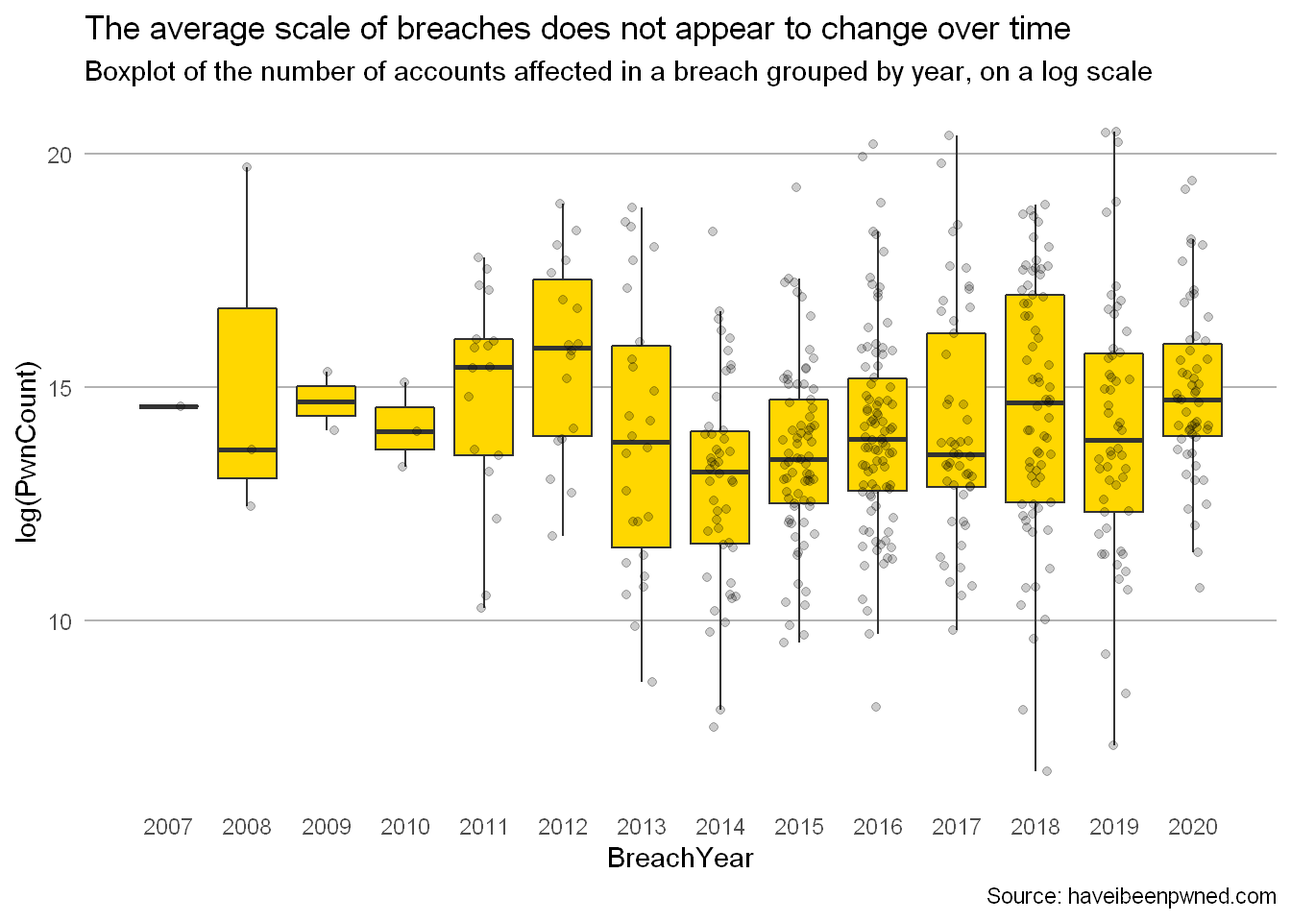
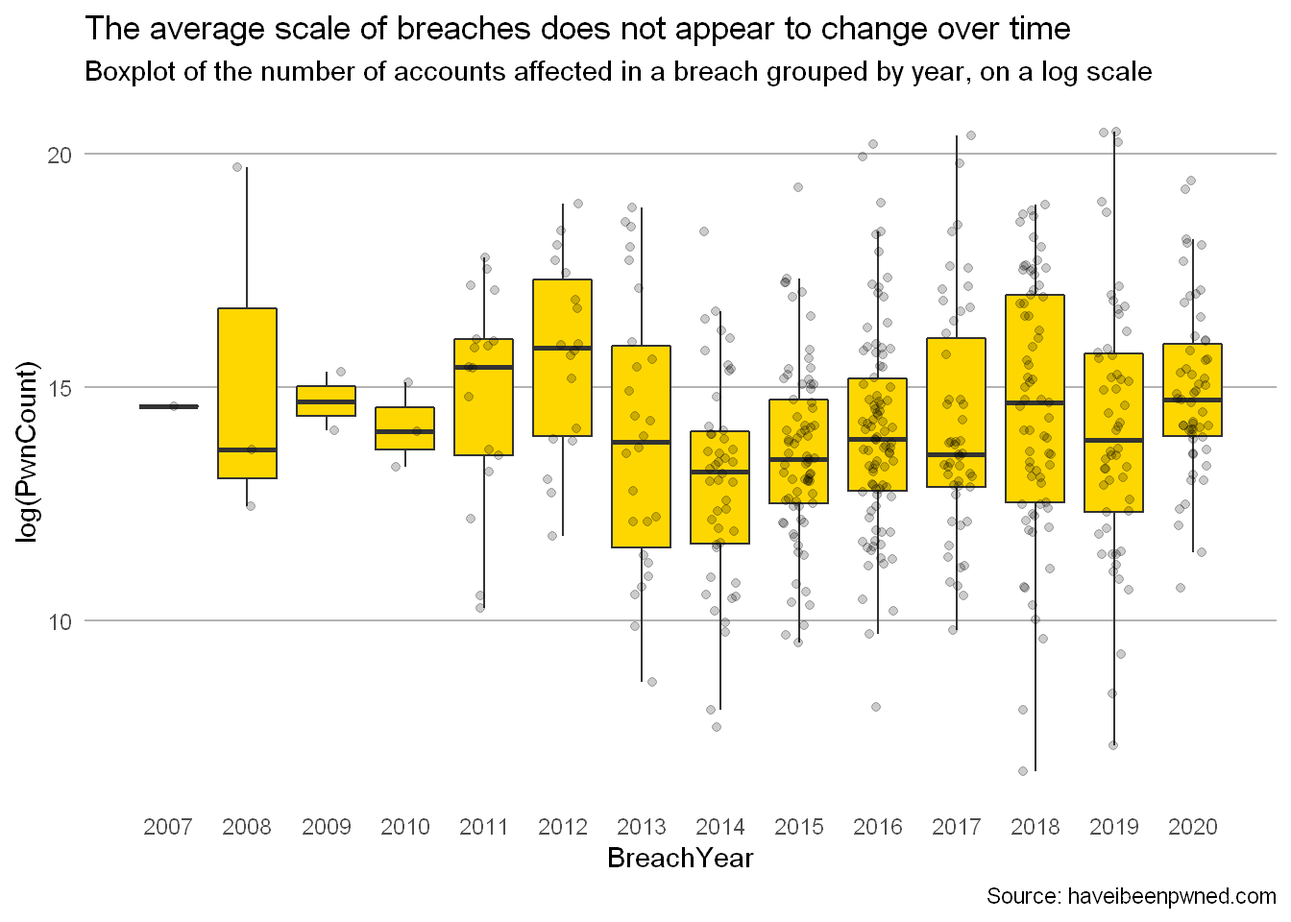
minor update

diff --git a/content/post/2020-12-16-have-you-been-pwned/index.html b/content/post/2020-12-16-have-you-been-pwned/index.html
@@ -2,11 +2,8 @@
 title: Have you been Pwned?
 author: ''
 date: '2020-12-16'
-slug: []
-categories: []
-tags: []
-description: ''
-topics: []
+tags:
+  - data exploration
 ---
 
 <script src="index_files/header-attrs/header-attrs.js"></script>
@@ -28,6 +25,7 @@ topics: []
 <p align="center">
 <img src="/images/cybersec.jpeg" width="800" height="500">
 </p>
+<p><em><strong>UPDATE</strong>: This post was originally made on 16th Dec 2020. Minor changes from the data may have occurred since then which may result in slight discrepancies between the written text and any tables, graphs or data shown here</em></p>
 <p>To “pwn” someone means that you have effectively overpowered or dominated that individual. It used to be most commonly used when someone was beaten in a video game, but now it refers to when a nefarious cyber-attack has occurred and someone has had their personal information stolen.</p>
 <p>Recently, there was <a href="https://www.bbc.co.uk/news/technology-55363828">news</a> of a <a href="https://en.wikipedia.org/wiki/2020_United_States_federal_government_data_breach">major cyber-attack</a> on several US federal government agencies. Known as the ‘Sunburst Breach’, it attacked various organisations by going through a supply chain, which in this case was a network management and monitoring tool from the company Solarwinds which has over 300,000 public and private customers. The attackers were able to gain access to private emails and other sensitive documents. This affected over 18,000 customers, some of which include:</p>
 <ul>
@@ -67,7 +65,8 @@ data_breaches &lt;- httr::content(raw_result, as = &quot;text&quot;) %&gt;%
 
 data_breach &lt;-  data_breaches %&gt;% 
   select(-LogoPath,-Description) %&gt;%
-  mutate(across(ends_with(&quot;Date&quot;), as.Date))</code></pre>
+  mutate(across(ends_with(&quot;Date&quot;), as.Date)) %&gt;% 
+  filter( lubridate::year(BreachDate) &lt; 2021  ) # ADDED FOR UPDATE</code></pre>
 <p>We have 495 data breaches in this dataset, with 14 attributes. The attributes of most interest to us are:</p>
 <ul>
 <li><p><strong><code>name</code></strong> and <strong><code>title</code></strong> - refers to the source of the data breach.</p></li>
@@ -131,7 +130,7 @@ FALSE
 FALSE
 </td>
 <td style="text-align:right;">
-430
+431
 </td>
 </tr>
 <tr>
@@ -522,7 +521,7 @@ FALSE
   rmarkdown::paged_table()</code></pre>
 <div data-pagedtable="false">
 <script data-pagedtable-source type="application/json">
-{"columns":[{"label":["DataClasses"],"name":[1],"type":["chr"],"align":["left"]},{"label":["Number of breaches"],"name":[2],"type":["int"],"align":["right"]}],"data":[{"1":"Email addresses","2":"499"},{"1":"Passwords","2":"417"},{"1":"Usernames","2":"290"},{"1":"IP addresses","2":"226"},{"1":"Names","2":"214"},{"1":"Dates of birth","2":"128"},{"1":"Phone numbers","2":"119"},{"1":"Physical addresses","2":"97"},{"1":"Genders","2":"87"},{"1":"Website activity","2":"76"},{"1":"Geographic locations","2":"68"},{"1":"Social media profiles","2":"25"},{"1":"Private messages","2":"24"},{"1":"Employers","2":"20"},{"1":"Job titles","2":"19"},{"1":"Purchases","2":"15"},{"1":"Spoken languages","2":"14"},{"1":"Device information","2":"11"},{"1":"Partial credit card data","2":"11"},{"1":"Security questions and answers","2":"11"},{"1":"Browser user agent details","2":"9"},{"1":"Marital statuses","2":"9"},{"1":"Email messages","2":"8"},{"1":"Government issued IDs","2":"8"},{"1":"Income levels","2":"8"},{"1":"Instant messenger identities","2":"8"},{"1":"Account balances","2":"7"},{"1":"Ethnicities","2":"7"},{"1":"Payment histories","2":"7"},{"1":"Physical attributes","2":"7"},{"1":"Auth tokens","2":"6"},{"1":"Avatars","2":"6"},{"1":"Family structure","2":"6"},{"1":"Sexual orientations","2":"6"},{"1":"Bios","2":"5"},{"1":"Credit cards","2":"5"},{"1":"Education levels","2":"5"},{"1":"Historical passwords","2":"5"},{"1":"Home ownership statuses","2":"5"},{"1":"Religions","2":"5"},{"1":"Salutations","2":"5"},{"1":"Social connections","2":"5"},{"1":"Time zones","2":"5"},{"1":"User website URLs","2":"5"},{"1":"Credit status information","2":"4"},{"1":"Drinking habits","2":"4"},{"1":"Passport numbers","2":"4"},{"1":"Family members' names","2":"3"},{"1":"Occupations","2":"3"},{"1":"Partial dates of birth","2":"3"},{"1":"Personal descriptions","2":"3"},{"1":"Profile photos","2":"3"},{"1":"Relationship statuses","2":"3"},{"1":"Smoking habits","2":"3"},{"1":"Age groups","2":"2"},{"1":"Ages","2":"2"},{"1":"Bank account numbers","2":"2"},{"1":"Chat logs","2":"2"},{"1":"Drug habits","2":"2"},{"1":"Financial investments","2":"2"},{"1":"Financial transactions","2":"2"},{"1":"Homepage URLs","2":"2"},{"1":"IMEI numbers","2":"2"},{"1":"Nationalities","2":"2"},{"1":"Net worths","2":"2"},{"1":"Nicknames","2":"2"},{"1":"Personal interests","2":"2"},{"1":"PINs","2":"2"},{"1":"Political views","2":"2"},{"1":"Sexual fetishes","2":"2"},{"1":"SMS messages","2":"2"},{"1":"Social security numbers","2":"2"},{"1":"Address book contacts","2":"1"},{"1":"Apps installed on devices","2":"1"},{"1":"Astrological signs","2":"1"},{"1":"Audio recordings","2":"1"},{"1":"Beauty ratings","2":"1"},{"1":"Biometric data","2":"1"},{"1":"Browsing histories","2":"1"},{"1":"Buying preferences","2":"1"},{"1":"Car ownership statuses","2":"1"},{"1":"Career levels","2":"1"},{"1":"Cellular network names","2":"1"},{"1":"Charitable donations","2":"1"},{"1":"Credit card CVV","2":"1"},{"1":"Customer feedback","2":"1"},{"1":"Customer interactions","2":"1"},{"1":"Deceased date","2":"1"},{"1":"Deceased statuses","2":"1"},{"1":"Device usage tracking data","2":"1"},{"1":"Eating habits","2":"1"},{"1":"Employment statuses","2":"1"},{"1":"Encrypted keys","2":"1"},{"1":"Fitness levels","2":"1"},{"1":"Health insurance information","2":"1"},{"1":"Home loan information","2":"1"},{"1":"IMSI numbers","2":"1"},{"1":"Job applications","2":"1"},{"1":"Living costs","2":"1"},{"1":"MAC addresses","2":"1"},{"1":"Mnemonic phrases","2":"1"},{"1":"Mothers maiden names","2":"1"},{"1":"Parenting plans","2":"1"},{"1":"Password hints","2":"1"},{"1":"Password strengths","2":"1"},{"1":"Payment methods","2":"1"},{"1":"Personal health data","2":"1"},{"1":"Photos","2":"1"},{"1":"Places of birth","2":"1"},{"1":"Political donations","2":"1"},{"1":"Professional skills","2":"1"},{"1":"Purchasing habits","2":"1"},{"1":"Races","2":"1"},{"1":"Recovery email addresses","2":"1"},{"1":"Reward program balances","2":"1"},{"1":"School grades (class levels)","2":"1"},{"1":"Spouses names","2":"1"},{"1":"Support tickets","2":"1"},{"1":"Survey results","2":"1"},{"1":"Taxation records","2":"1"},{"1":"Travel habits","2":"1"},{"1":"User statuses","2":"1"},{"1":"Utility bills","2":"1"},{"1":"Vehicle details","2":"1"},{"1":"Work habits","2":"1"},{"1":"Years of professional experience","2":"1"}],"options":{"columns":{"min":{},"max":[10]},"rows":{"min":[10],"max":[10]},"pages":{}}}
+{"columns":[{"label":["DataClasses"],"name":[1],"type":["chr"],"align":["left"]},{"label":["Number of breaches"],"name":[2],"type":["int"],"align":["right"]}],"data":[{"1":"Email addresses","2":"500"},{"1":"Passwords","2":"418"},{"1":"Usernames","2":"290"},{"1":"IP addresses","2":"226"},{"1":"Names","2":"215"},{"1":"Dates of birth","2":"128"},{"1":"Phone numbers","2":"119"},{"1":"Physical addresses","2":"97"},{"1":"Genders","2":"87"},{"1":"Website activity","2":"76"},{"1":"Geographic locations","2":"68"},{"1":"Social media profiles","2":"26"},{"1":"Private messages","2":"24"},{"1":"Employers","2":"20"},{"1":"Job titles","2":"19"},{"1":"Purchases","2":"15"},{"1":"Spoken languages","2":"14"},{"1":"Device information","2":"11"},{"1":"Partial credit card data","2":"11"},{"1":"Security questions and answers","2":"11"},{"1":"Browser user agent details","2":"9"},{"1":"Marital statuses","2":"9"},{"1":"Email messages","2":"8"},{"1":"Government issued IDs","2":"8"},{"1":"Income levels","2":"8"},{"1":"Instant messenger identities","2":"8"},{"1":"Account balances","2":"7"},{"1":"Ethnicities","2":"7"},{"1":"Payment histories","2":"7"},{"1":"Physical attributes","2":"7"},{"1":"Auth tokens","2":"6"},{"1":"Avatars","2":"6"},{"1":"Family structure","2":"6"},{"1":"Sexual orientations","2":"6"},{"1":"Bios","2":"5"},{"1":"Credit cards","2":"5"},{"1":"Education levels","2":"5"},{"1":"Historical passwords","2":"5"},{"1":"Home ownership statuses","2":"5"},{"1":"Religions","2":"5"},{"1":"Salutations","2":"5"},{"1":"Social connections","2":"5"},{"1":"Time zones","2":"5"},{"1":"User website URLs","2":"5"},{"1":"Credit status information","2":"4"},{"1":"Drinking habits","2":"4"},{"1":"Passport numbers","2":"4"},{"1":"Family members' names","2":"3"},{"1":"Occupations","2":"3"},{"1":"Partial dates of birth","2":"3"},{"1":"Personal descriptions","2":"3"},{"1":"Profile photos","2":"3"},{"1":"Relationship statuses","2":"3"},{"1":"Smoking habits","2":"3"},{"1":"Age groups","2":"2"},{"1":"Ages","2":"2"},{"1":"Bank account numbers","2":"2"},{"1":"Chat logs","2":"2"},{"1":"Drug habits","2":"2"},{"1":"Financial investments","2":"2"},{"1":"Financial transactions","2":"2"},{"1":"Homepage URLs","2":"2"},{"1":"IMEI numbers","2":"2"},{"1":"Nationalities","2":"2"},{"1":"Net worths","2":"2"},{"1":"Nicknames","2":"2"},{"1":"Personal interests","2":"2"},{"1":"PINs","2":"2"},{"1":"Political views","2":"2"},{"1":"Sexual fetishes","2":"2"},{"1":"SMS messages","2":"2"},{"1":"Social security numbers","2":"2"},{"1":"Address book contacts","2":"1"},{"1":"Apps installed on devices","2":"1"},{"1":"Astrological signs","2":"1"},{"1":"Audio recordings","2":"1"},{"1":"Beauty ratings","2":"1"},{"1":"Biometric data","2":"1"},{"1":"Browsing histories","2":"1"},{"1":"Buying preferences","2":"1"},{"1":"Car ownership statuses","2":"1"},{"1":"Career levels","2":"1"},{"1":"Cellular network names","2":"1"},{"1":"Charitable donations","2":"1"},{"1":"Credit card CVV","2":"1"},{"1":"Customer feedback","2":"1"},{"1":"Customer interactions","2":"1"},{"1":"Deceased date","2":"1"},{"1":"Deceased statuses","2":"1"},{"1":"Device usage tracking data","2":"1"},{"1":"Eating habits","2":"1"},{"1":"Employment statuses","2":"1"},{"1":"Encrypted keys","2":"1"},{"1":"Fitness levels","2":"1"},{"1":"Health insurance information","2":"1"},{"1":"Home loan information","2":"1"},{"1":"IMSI numbers","2":"1"},{"1":"Job applications","2":"1"},{"1":"Living costs","2":"1"},{"1":"MAC addresses","2":"1"},{"1":"Mnemonic phrases","2":"1"},{"1":"Mothers maiden names","2":"1"},{"1":"Parenting plans","2":"1"},{"1":"Password hints","2":"1"},{"1":"Password strengths","2":"1"},{"1":"Payment methods","2":"1"},{"1":"Personal health data","2":"1"},{"1":"Photos","2":"1"},{"1":"Places of birth","2":"1"},{"1":"Political donations","2":"1"},{"1":"Professional skills","2":"1"},{"1":"Purchasing habits","2":"1"},{"1":"Races","2":"1"},{"1":"Recovery email addresses","2":"1"},{"1":"Reward program balances","2":"1"},{"1":"School grades (class levels)","2":"1"},{"1":"Spouses names","2":"1"},{"1":"Support tickets","2":"1"},{"1":"Survey results","2":"1"},{"1":"Taxation records","2":"1"},{"1":"Travel habits","2":"1"},{"1":"User statuses","2":"1"},{"1":"Utility bills","2":"1"},{"1":"Vehicle details","2":"1"},{"1":"Work habits","2":"1"},{"1":"Years of professional experience","2":"1"}],"options":{"columns":{"min":{},"max":[10]},"rows":{"min":[10],"max":[10]},"pages":{}}}
   </script>
 </div>
 <p>Showing the results in a graph,</p>
@@ -559,7 +558,7 @@ data_breach %&gt;%
 # wordcloud2(color=sample( c(&quot;#00FF41&quot;,&quot;#7FE706&quot;,&quot;#48A70B&quot;,&quot;#A4FF00&quot;,&quot;#66FF01&quot;,&quot;#2CE71E&quot;,&quot;#0AAF30&quot;),126,replace=TRUE), backgroundColor =&quot;black&quot;,rotateRatio=0,size=0.5,fontFamily=&quot;Rockwell&quot;)
    wordcloud2(color=&#39;random-light&#39;, backgroundColor = &quot;black&quot;,rotateRatio=0,size=0.5,fontFamily=&quot;Rockwell&quot;)</code></pre>
 <div id="htmlwidget-1" style="width:960px;height:480px;" class="wordcloud2 html-widget"></div>
-<script type="application/json" data-for="htmlwidget-1">{"x":{"word":["Email addresses","Passwords","Usernames","IP addresses","Names","Dates of birth","Phone numbers","Physical addresses","Genders","Website activity","Geographic locations","Social media profiles","Private messages","Employers","Job titles","Purchases","Spoken languages","Device information","Partial credit card data","Security questions and answers","Browser user agent details","Marital statuses","Email messages","Government issued IDs","Income levels","Instant messenger identities","Account balances","Ethnicities","Payment histories","Physical attributes","Auth tokens","Avatars","Family structure","Sexual orientations","Bios","Credit cards","Education levels","Historical passwords","Home ownership statuses","Religions","Salutations","Social connections","Time zones","User website URLs","Credit status information","Drinking habits","Passport numbers","Family members' names","Occupations","Partial dates of birth","Personal descriptions","Profile photos","Relationship statuses","Smoking habits","Age groups","Ages","Bank account numbers","Chat logs","Drug habits","Financial investments","Financial transactions","Homepage URLs","IMEI numbers","Nationalities","Net worths","Nicknames","Personal interests","PINs","Political views","Sexual fetishes","SMS messages","Social security numbers","Address book contacts","Apps installed on devices","Astrological signs","Audio recordings","Beauty ratings","Biometric data","Browsing histories","Buying preferences","Car ownership statuses","Career levels","Cellular network names","Charitable donations","Credit card CVV","Customer feedback","Customer interactions","Deceased date","Deceased statuses","Device usage tracking data","Eating habits","Employment statuses","Encrypted keys","Fitness levels","Health insurance information","Home loan information","IMSI numbers","Job applications","Living costs","MAC addresses","Mnemonic phrases","Mothers maiden names","Parenting plans","Password hints","Password strengths","Payment methods","Personal health data","Photos","Places of birth","Political donations","Professional skills","Purchasing habits","Races","Recovery email addresses","Reward program balances","School grades (class levels)","Spouses names","Support tickets","Survey results","Taxation records","Travel habits","User statuses","Utility bills","Vehicle details","Work habits","Years of professional experience"],"freq":[499,417,290,226,214,128,119,97,87,76,68,25,24,20,19,15,14,11,11,11,9,9,8,8,8,8,7,7,7,7,6,6,6,6,5,5,5,5,5,5,5,5,5,5,4,4,4,3,3,3,3,3,3,3,2,2,2,2,2,2,2,2,2,2,2,2,2,2,2,2,2,2,1,1,1,1,1,1,1,1,1,1,1,1,1,1,1,1,1,1,1,1,1,1,1,1,1,1,1,1,1,1,1,1,1,1,1,1,1,1,1,1,1,1,1,1,1,1,1,1,1,1,1,1,1,1],"fontFamily":"Rockwell","fontWeight":"bold","color":"random-light","minSize":0,"weightFactor":0.180360721442886,"backgroundColor":"black","gridSize":0,"minRotation":-0.785398163397448,"maxRotation":0.785398163397448,"shuffle":true,"rotateRatio":0,"shape":"circle","ellipticity":0.65,"figBase64":null,"hover":null},"evals":[],"jsHooks":{"render":[{"code":"function(el,x){\n                        console.log(123);\n                        if(!iii){\n                          window.location.reload();\n                          iii = False;\n\n                        }\n  }","data":null}]}}</script>
+<script type="application/json" data-for="htmlwidget-1">{"x":{"word":["Email addresses","Passwords","Usernames","IP addresses","Names","Dates of birth","Phone numbers","Physical addresses","Genders","Website activity","Geographic locations","Social media profiles","Private messages","Employers","Job titles","Purchases","Spoken languages","Device information","Partial credit card data","Security questions and answers","Browser user agent details","Marital statuses","Email messages","Government issued IDs","Income levels","Instant messenger identities","Account balances","Ethnicities","Payment histories","Physical attributes","Auth tokens","Avatars","Family structure","Sexual orientations","Bios","Credit cards","Education levels","Historical passwords","Home ownership statuses","Religions","Salutations","Social connections","Time zones","User website URLs","Credit status information","Drinking habits","Passport numbers","Family members' names","Occupations","Partial dates of birth","Personal descriptions","Profile photos","Relationship statuses","Smoking habits","Age groups","Ages","Bank account numbers","Chat logs","Drug habits","Financial investments","Financial transactions","Homepage URLs","IMEI numbers","Nationalities","Net worths","Nicknames","Personal interests","PINs","Political views","Sexual fetishes","SMS messages","Social security numbers","Address book contacts","Apps installed on devices","Astrological signs","Audio recordings","Beauty ratings","Biometric data","Browsing histories","Buying preferences","Car ownership statuses","Career levels","Cellular network names","Charitable donations","Credit card CVV","Customer feedback","Customer interactions","Deceased date","Deceased statuses","Device usage tracking data","Eating habits","Employment statuses","Encrypted keys","Fitness levels","Health insurance information","Home loan information","IMSI numbers","Job applications","Living costs","MAC addresses","Mnemonic phrases","Mothers maiden names","Parenting plans","Password hints","Password strengths","Payment methods","Personal health data","Photos","Places of birth","Political donations","Professional skills","Purchasing habits","Races","Recovery email addresses","Reward program balances","School grades (class levels)","Spouses names","Support tickets","Survey results","Taxation records","Travel habits","User statuses","Utility bills","Vehicle details","Work habits","Years of professional experience"],"freq":[500,418,290,226,215,128,119,97,87,76,68,26,24,20,19,15,14,11,11,11,9,9,8,8,8,8,7,7,7,7,6,6,6,6,5,5,5,5,5,5,5,5,5,5,4,4,4,3,3,3,3,3,3,3,2,2,2,2,2,2,2,2,2,2,2,2,2,2,2,2,2,2,1,1,1,1,1,1,1,1,1,1,1,1,1,1,1,1,1,1,1,1,1,1,1,1,1,1,1,1,1,1,1,1,1,1,1,1,1,1,1,1,1,1,1,1,1,1,1,1,1,1,1,1,1,1],"fontFamily":"Rockwell","fontWeight":"bold","color":"random-light","minSize":0,"weightFactor":0.18,"backgroundColor":"black","gridSize":0,"minRotation":-0.785398163397448,"maxRotation":0.785398163397448,"shuffle":true,"rotateRatio":0,"shape":"circle","ellipticity":0.65,"figBase64":null,"hover":null},"evals":[],"jsHooks":{"render":[{"code":"function(el,x){\n                        console.log(123);\n                        if(!iii){\n                          window.location.reload();\n                          iii = False;\n\n                        }\n  }","data":null}]}}</script>
 <p>From this we see that e-mail addresses had appeared in in 490 out of the 495 possible breaches, meaning emails were stolen 95% of the time in this data set. Passwords were stolen 82% of the time.</p>
 <pre class="r"><code>data_breach %&gt;%
   transmute(DataClasses,BreachYear = lubridate::year(BreachDate)) %&gt;% 
@@ -632,7 +631,7 @@ data_breach %&gt;%
   rmarkdown::paged_table()</code></pre>
 <div data-pagedtable="false">
 <script data-pagedtable-source type="application/json">
-{"columns":[{"label":["DataClasses"],"name":[1],"type":["chr"],"align":["left"]},{"label":["Total"],"name":[2],"type":["dbl"],"align":["right"]}],"data":[{"1":"Email addresses","2":"10568852002"},{"1":"Passwords","2":"7704169166"},{"1":"Names","2":"4698167736"},{"1":"Usernames","2":"3040959547"},{"1":"Phone numbers","2":"2971933917"},{"1":"IP addresses","2":"2684952504"},{"1":"Geographic locations","2":"2638017428"},{"1":"Genders","2":"2199723989"},{"1":"Dates of birth","2":"2140423595"},{"1":"Physical addresses","2":"2132835355"},{"1":"Job titles","2":"1900397201"},{"1":"Employers","2":"1797277305"},{"1":"Social media profiles","2":"1341430176"},{"1":"Spoken languages","2":"492968782"},{"1":"Bios","2":"300411276"},{"1":"Website activity","2":"283313968"},{"1":"User website URLs","2":"270209736"},{"1":"Ethnicities","2":"223945458"},{"1":"Income levels","2":"201113261"},{"1":"Religions","2":"185090238"},{"1":"Education levels","2":"184035509"},{"1":"Family structure","2":"172044178"},{"1":"Marital statuses","2":"171049771"},{"1":"Occupations","2":"157716250"},{"1":"Password hints","2":"152445165"},{"1":"Home ownership statuses","2":"150308804"},{"1":"Credit status information","2":"147923414"},{"1":"Salutations","2":"143418226"},{"1":"Financial investments","2":"139753895"},{"1":"Net worths","2":"139753895"},{"1":"Personal interests","2":"132677852"},{"1":"Sexual orientations","2":"101898242"},{"1":"Device information","2":"79108056"},{"1":"Sexual fetishes","2":"68160667"},{"1":"Physical attributes","2":"56236111"},{"1":"Relationship statuses","2":"55188865"},{"1":"Drinking habits","2":"53843674"},{"1":"Political views","2":"51320868"},{"1":"Auth tokens","2":"46074589"},{"1":"Security questions and answers","2":"45143503"},{"1":"Payment histories","2":"37190950"},{"1":"Profile photos","2":"34481150"},{"1":"Browser user agent details","2":"30960806"},{"1":"Personal descriptions","2":"29465733"},{"1":"Drug habits","2":"28815732"},{"1":"Partial credit card data","2":"28250715"},{"1":"Astrological signs","2":"27393015"},{"1":"Fitness levels","2":"27393015"},{"1":"Parenting plans","2":"27393015"},{"1":"Travel habits","2":"27393015"},{"1":"Work habits","2":"27393015"},{"1":"Smoking habits","2":"26450659"},{"1":"Nicknames","2":"23956494"},{"1":"Purchases","2":"21742081"},{"1":"IMEI numbers","2":"20624169"},{"1":"Address book contacts","2":"20580060"},{"1":"Apps installed on devices","2":"20580060"},{"1":"Cellular network names","2":"20580060"},{"1":"IMSI numbers","2":"20580060"},{"1":"Email messages","2":"11723845"},{"1":"Government issued IDs","2":"8470456"},{"1":"Account balances","2":"8317372"},{"1":"Buying preferences","2":"8176132"},{"1":"Charitable donations","2":"8176132"},{"1":"Political donations","2":"8176132"},{"1":"Purchasing habits","2":"7196890"},{"1":"Nationalities","2":"6141385"},{"1":"Password strengths","2":"5814988"},{"1":"Private messages","2":"5653209"},{"1":"Family members' names","2":"5645786"},{"1":"PINs","2":"5122675"},{"1":"Historical passwords","2":"4702776"},{"1":"Races","2":"3867997"},{"1":"Avatars","2":"3825765"},{"1":"Social connections","2":"3692955"},{"1":"Social security numbers","2":"3206897"},{"1":"Instant messenger identities","2":"2827558"},{"1":"Payment methods","2":"2424784"},{"1":"Deceased statuses","2":"2257930"},{"1":"Survey results","2":"2231256"},{"1":"Time zones","2":"1945839"},{"1":"Partial dates of birth","2":"1623786"},{"1":"Recovery email addresses","2":"1476783"},{"1":"Encrypted keys","2":"1408078"},{"1":"Mnemonic phrases","2":"1408078"},{"1":"Eating habits","2":"1383759"},{"1":"Ages","2":"1336754"},{"1":"Homepage URLs","2":"1264321"},{"1":"Beauty ratings","2":"1100089"},{"1":"Car ownership statuses","2":"1100089"},{"1":"Professional skills","2":"1073164"},{"1":"Years of professional experience","2":"1073164"},{"1":"Credit cards","2":"1047526"},{"1":"Home loan information","2":"972629"},{"1":"Living costs","2":"768890"},{"1":"Mothers maiden names","2":"768890"},{"1":"Places of birth","2":"768890"},{"1":"Spouses names","2":"768890"},{"1":"Device usage tracking data","2":"699793"},{"1":"Passport numbers","2":"692545"},{"1":"School grades (class levels)","2":"542902"},{"1":"Financial transactions","2":"532919"},{"1":"Taxation records","2":"471167"},{"1":"Chat logs","2":"415240"},{"1":"Vehicle details","2":"396650"},{"1":"Bank account numbers","2":"331393"},{"1":"Health insurance information","2":"321920"},{"1":"Personal health data","2":"321920"},{"1":"Biometric data","2":"228605"},{"1":"Job applications","2":"226095"},{"1":"User statuses","2":"149830"},{"1":"Customer interactions","2":"139395"},{"1":"MAC addresses","2":"139395"},{"1":"Age groups","2":"121795"},{"1":"Credit card CVV","2":"104977"},{"1":"SMS messages","2":"100130"},{"1":"Customer feedback","2":"88678"},{"1":"Deceased date","2":"81830"},{"1":"Utility bills","2":"81830"},{"1":"Employment statuses","2":"49681"},{"1":"Audio recordings","2":"44109"},{"1":"Browsing histories","2":"44109"},{"1":"Photos","2":"44109"},{"1":"Career levels","2":"36789"},{"1":"Support tickets","2":"26815"},{"1":"Reward program balances","2":"2239"}],"options":{"columns":{"min":{},"max":[10]},"rows":{"min":[10],"max":[10]},"pages":{}}}
+{"columns":[{"label":["DataClasses"],"name":[1],"type":["chr"],"align":["left"]},{"label":["Total"],"name":[2],"type":["dbl"],"align":["right"]}],"data":[{"1":"Email addresses","2":"10571333123"},{"1":"Passwords","2":"7706650287"},{"1":"Names","2":"4700648857"},{"1":"Usernames","2":"3040959547"},{"1":"Phone numbers","2":"2971933917"},{"1":"IP addresses","2":"2684952504"},{"1":"Geographic locations","2":"2638017428"},{"1":"Genders","2":"2199723989"},{"1":"Dates of birth","2":"2140423595"},{"1":"Physical addresses","2":"2132835355"},{"1":"Job titles","2":"1900397201"},{"1":"Employers","2":"1797277305"},{"1":"Social media profiles","2":"1343911297"},{"1":"Spoken languages","2":"492968782"},{"1":"Bios","2":"300411276"},{"1":"Website activity","2":"283313968"},{"1":"User website URLs","2":"270209736"},{"1":"Ethnicities","2":"223945458"},{"1":"Income levels","2":"201113261"},{"1":"Religions","2":"185090238"},{"1":"Education levels","2":"184035509"},{"1":"Family structure","2":"172044178"},{"1":"Marital statuses","2":"171049771"},{"1":"Occupations","2":"157716250"},{"1":"Password hints","2":"152445165"},{"1":"Home ownership statuses","2":"150308804"},{"1":"Credit status information","2":"147923414"},{"1":"Salutations","2":"143418226"},{"1":"Financial investments","2":"139753895"},{"1":"Net worths","2":"139753895"},{"1":"Personal interests","2":"132677852"},{"1":"Sexual orientations","2":"101898242"},{"1":"Device information","2":"79108056"},{"1":"Sexual fetishes","2":"68160667"},{"1":"Physical attributes","2":"56236111"},{"1":"Relationship statuses","2":"55188865"},{"1":"Drinking habits","2":"53843674"},{"1":"Political views","2":"51320868"},{"1":"Auth tokens","2":"46074589"},{"1":"Security questions and answers","2":"45143503"},{"1":"Payment histories","2":"37190950"},{"1":"Profile photos","2":"34481150"},{"1":"Browser user agent details","2":"30960806"},{"1":"Personal descriptions","2":"29465733"},{"1":"Drug habits","2":"28815732"},{"1":"Partial credit card data","2":"28250715"},{"1":"Astrological signs","2":"27393015"},{"1":"Fitness levels","2":"27393015"},{"1":"Parenting plans","2":"27393015"},{"1":"Travel habits","2":"27393015"},{"1":"Work habits","2":"27393015"},{"1":"Smoking habits","2":"26450659"},{"1":"Nicknames","2":"23956494"},{"1":"Purchases","2":"21742081"},{"1":"IMEI numbers","2":"20624169"},{"1":"Address book contacts","2":"20580060"},{"1":"Apps installed on devices","2":"20580060"},{"1":"Cellular network names","2":"20580060"},{"1":"IMSI numbers","2":"20580060"},{"1":"Email messages","2":"11723845"},{"1":"Government issued IDs","2":"8470456"},{"1":"Account balances","2":"8317372"},{"1":"Buying preferences","2":"8176132"},{"1":"Charitable donations","2":"8176132"},{"1":"Political donations","2":"8176132"},{"1":"Purchasing habits","2":"7196890"},{"1":"Nationalities","2":"6141385"},{"1":"Password strengths","2":"5814988"},{"1":"Private messages","2":"5653209"},{"1":"Family members' names","2":"5645786"},{"1":"PINs","2":"5122675"},{"1":"Historical passwords","2":"4702776"},{"1":"Races","2":"3867997"},{"1":"Avatars","2":"3825765"},{"1":"Social connections","2":"3692955"},{"1":"Social security numbers","2":"3206897"},{"1":"Instant messenger identities","2":"2827558"},{"1":"Payment methods","2":"2424784"},{"1":"Deceased statuses","2":"2257930"},{"1":"Survey results","2":"2231256"},{"1":"Time zones","2":"1945839"},{"1":"Partial dates of birth","2":"1623786"},{"1":"Recovery email addresses","2":"1476783"},{"1":"Encrypted keys","2":"1408078"},{"1":"Mnemonic phrases","2":"1408078"},{"1":"Eating habits","2":"1383759"},{"1":"Ages","2":"1336754"},{"1":"Homepage URLs","2":"1264321"},{"1":"Beauty ratings","2":"1100089"},{"1":"Car ownership statuses","2":"1100089"},{"1":"Professional skills","2":"1073164"},{"1":"Years of professional experience","2":"1073164"},{"1":"Credit cards","2":"1047526"},{"1":"Home loan information","2":"972629"},{"1":"Living costs","2":"768890"},{"1":"Mothers maiden names","2":"768890"},{"1":"Places of birth","2":"768890"},{"1":"Spouses names","2":"768890"},{"1":"Device usage tracking data","2":"699793"},{"1":"Passport numbers","2":"692545"},{"1":"School grades (class levels)","2":"542902"},{"1":"Financial transactions","2":"532919"},{"1":"Taxation records","2":"471167"},{"1":"Chat logs","2":"415240"},{"1":"Vehicle details","2":"396650"},{"1":"Bank account numbers","2":"331393"},{"1":"Health insurance information","2":"321920"},{"1":"Personal health data","2":"321920"},{"1":"Biometric data","2":"228605"},{"1":"Job applications","2":"226095"},{"1":"User statuses","2":"149830"},{"1":"Customer interactions","2":"139395"},{"1":"MAC addresses","2":"139395"},{"1":"Age groups","2":"121795"},{"1":"Credit card CVV","2":"104977"},{"1":"SMS messages","2":"100130"},{"1":"Customer feedback","2":"88678"},{"1":"Deceased date","2":"81830"},{"1":"Utility bills","2":"81830"},{"1":"Employment statuses","2":"49681"},{"1":"Audio recordings","2":"44109"},{"1":"Browsing histories","2":"44109"},{"1":"Photos","2":"44109"},{"1":"Career levels","2":"36789"},{"1":"Support tickets","2":"26815"},{"1":"Reward program balances","2":"2239"}],"options":{"columns":{"min":{},"max":[10]},"rows":{"min":[10],"max":[10]},"pages":{}}}
   </script>
 </div>
 <p>The top 5 total number of data types leaked are</p>
@@ -914,7 +913,7 @@ OnlinerSpambot
   geom_col(fill=&quot;#AA1016&quot;)+
   geom_text(aes(label=n),vjust=-.5,col=&quot;white&quot;)+
   scale_x_continuous(breaks= seq(2008,2020,1))+
-  scale_y_continuous(expand=expansion(mult = 0),limits = c(0,24) )+ 
+  scale_y_continuous(expand=expansion(mult = 0),limits = c(0,26) )+ 
   labs(title=&quot;Though the number of massive data breaches peaked in 2018...&quot;,
        subtitle = &quot;Plot showing number of breaches affecting at least &lt;span style = &#39;color: #AA1016&#39;&gt;**10 million people**&lt;/span&gt;. \n \nWhile the number of massive data breaches has decreased from 2018,&lt;br&gt;online users needs to remain cautious as the number of massive breaches is still higher&lt;br&gt; than it was in the first half of the previous decade.&quot;,
        y=&quot;Number of breaches&quot;,x=&quot;Year&quot;,caption=&quot;Source: haveibeenpwned.com&quot;)+
